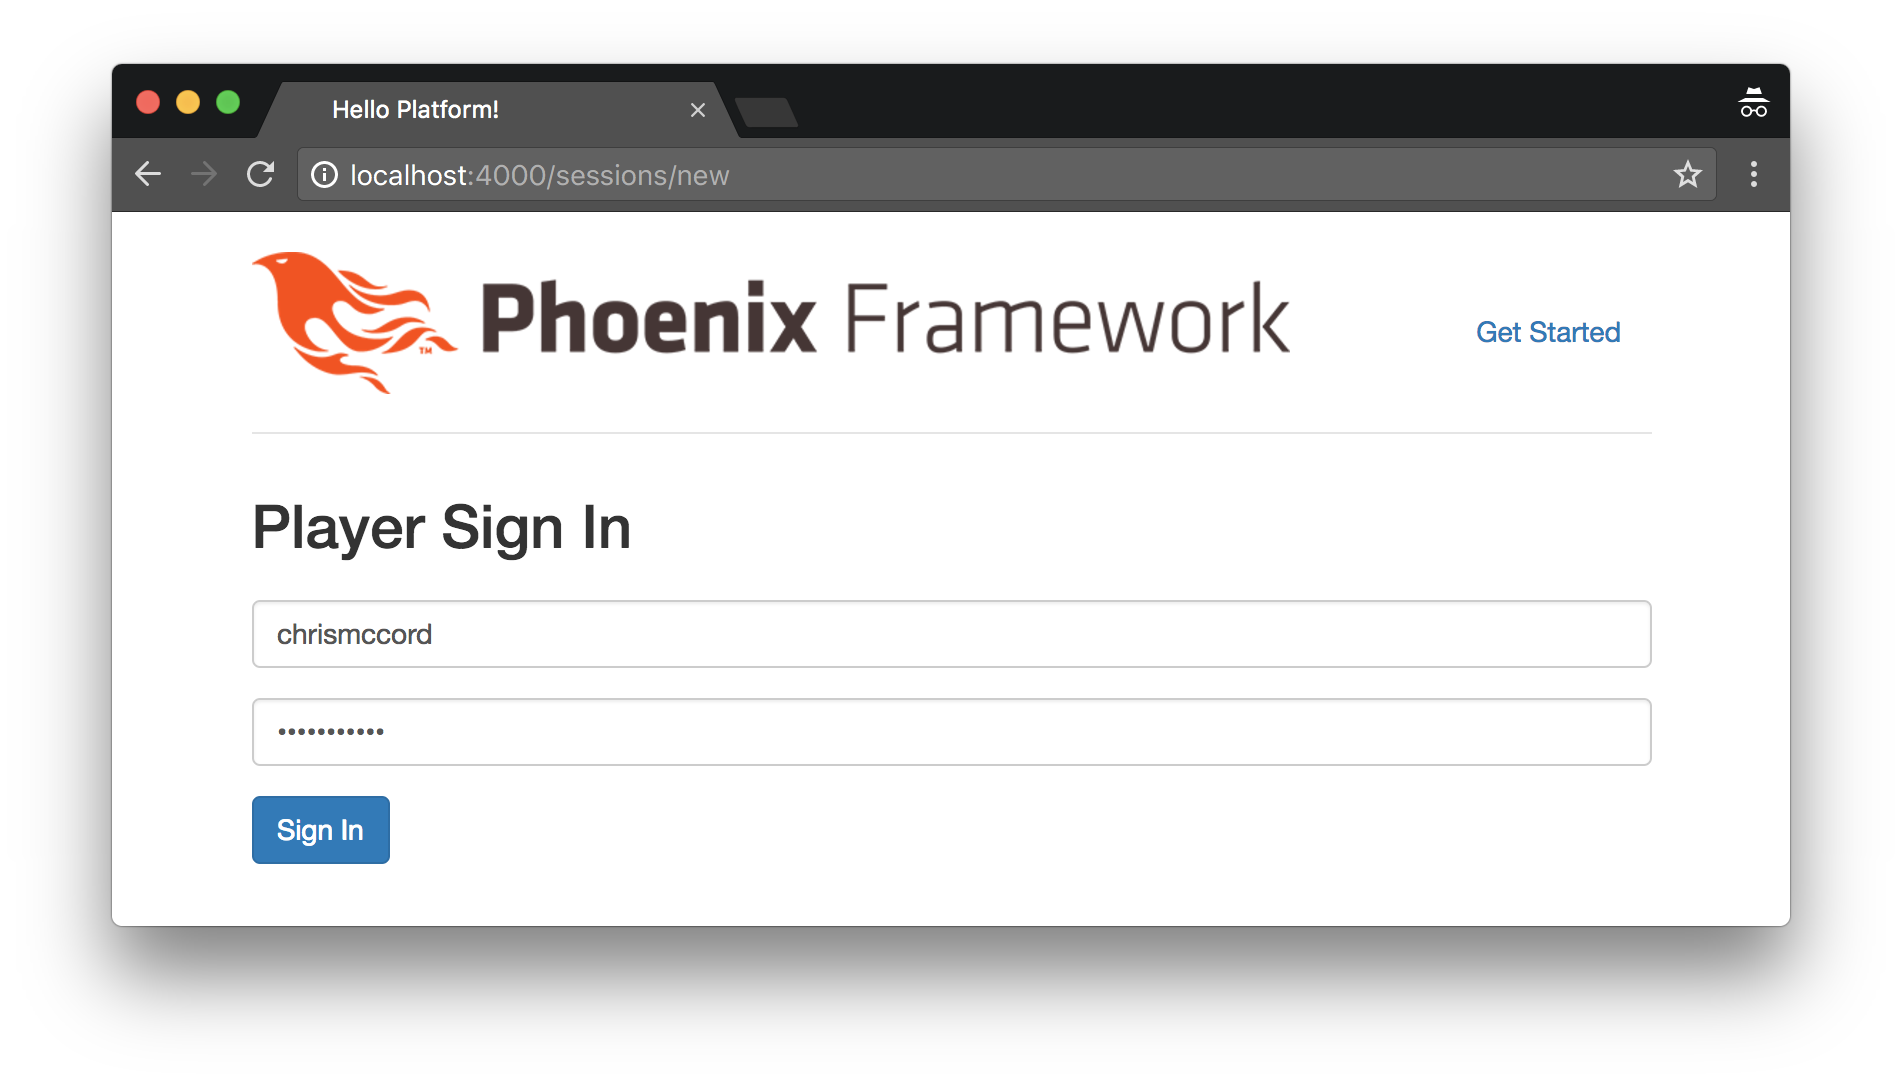
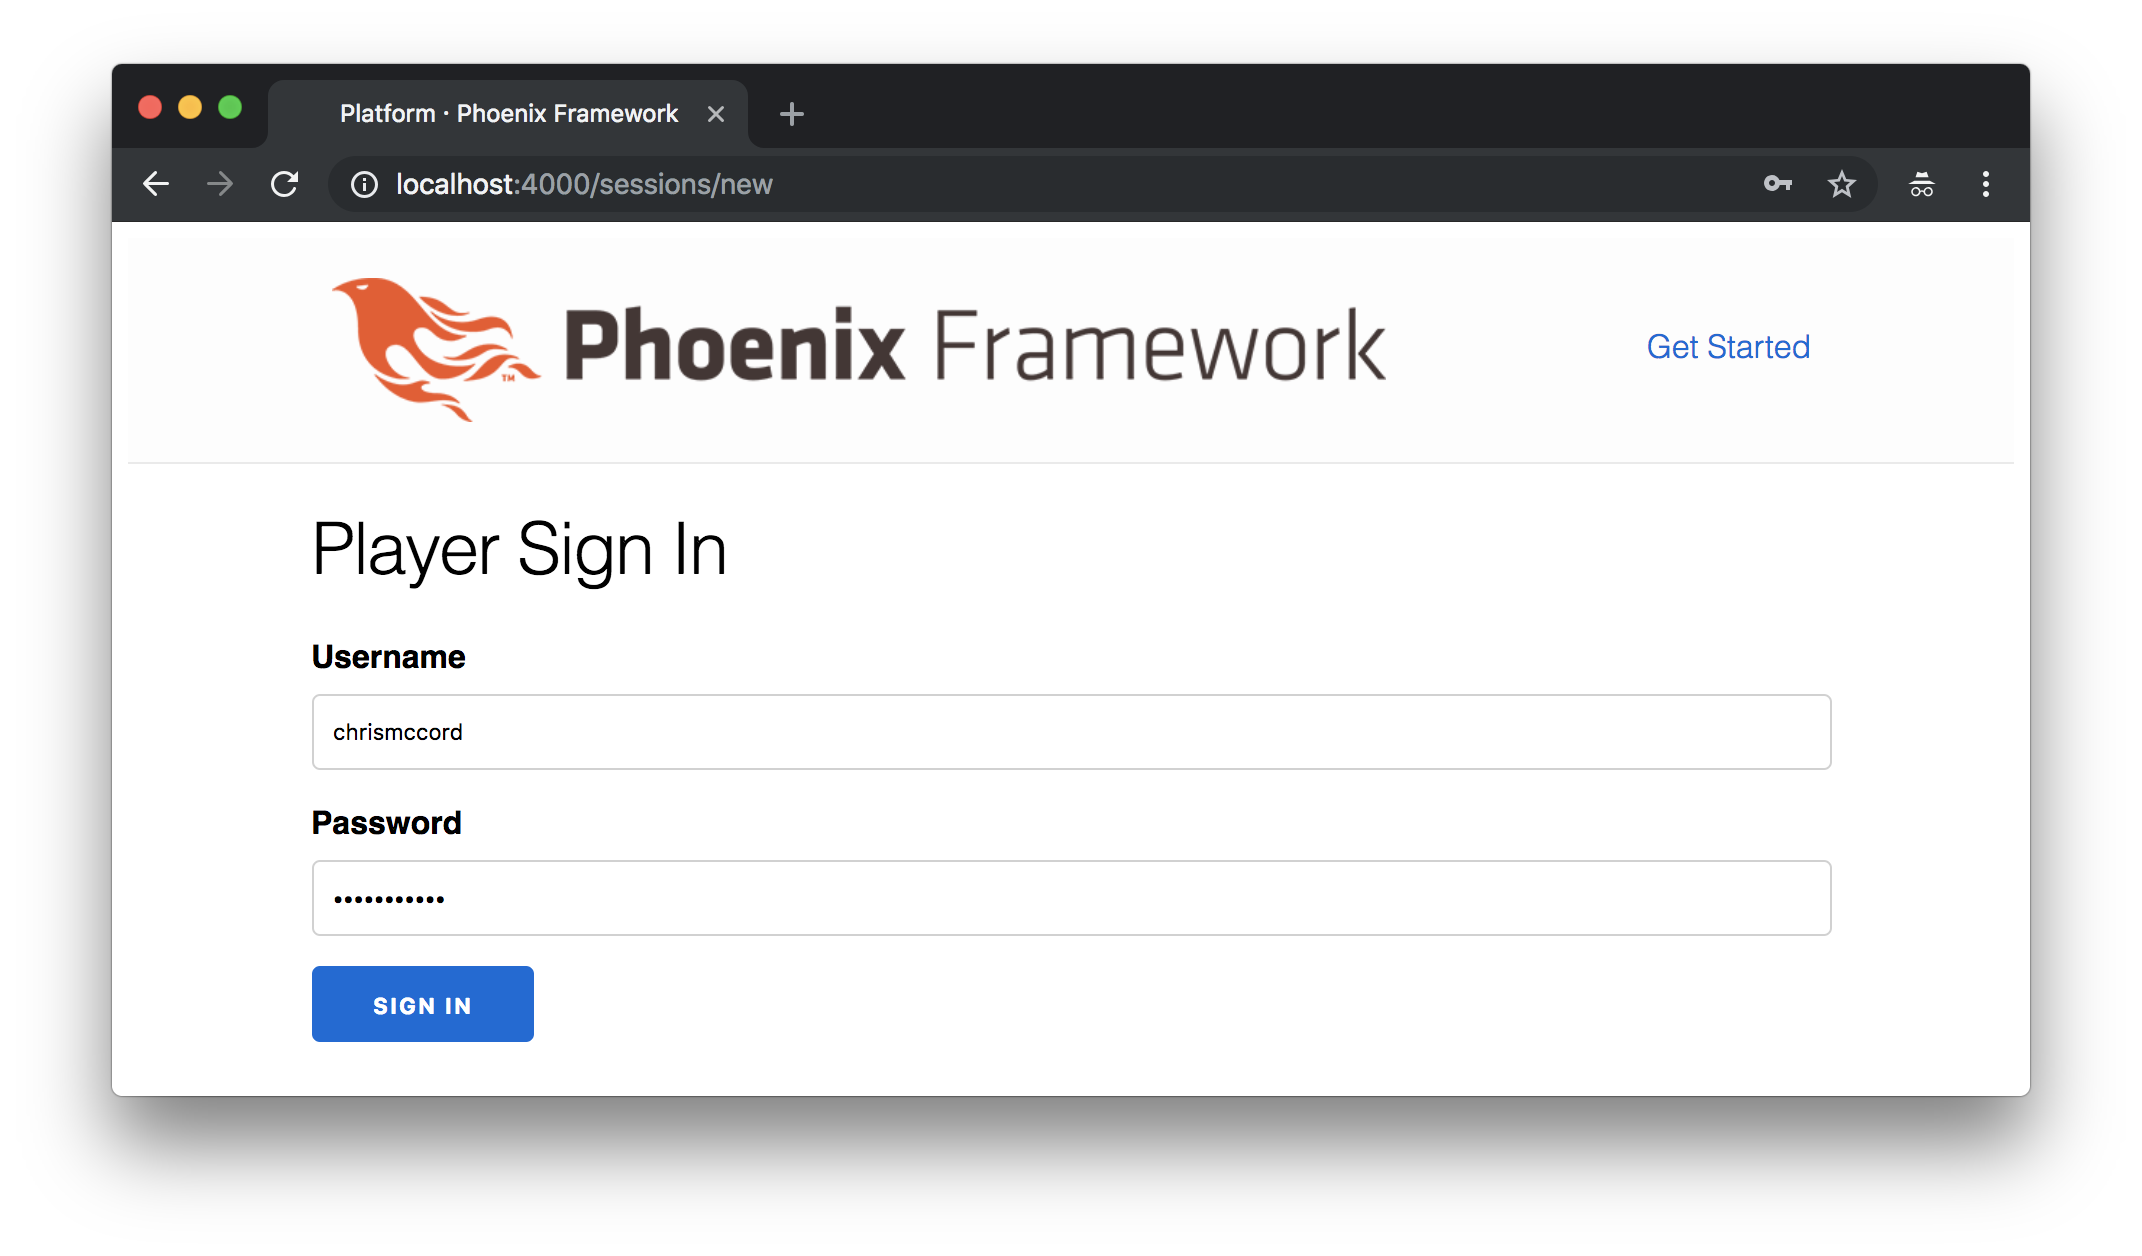
Update session section and images

Changed region(s): [[0.031, 0.0304, 0.9616, 0.9116], [0.1241, 0.395, 0.3412, 0.547], [0.7755, 0.2735, 0.8686, 0.3343]]

diff --git a/manuscript/phoenix_authentication.md b/manuscript/phoenix_authentication.md
@@ -639,9 +639,9 @@ authenticated the new player at the same time.
 ## Sessions
 
 To complete our authentication features, we'll need to handle user sessions. We
-were able to handle sign ins in the previous section because we took care of it
-while creating an account, but now we'll also want to allow users to sign out
-and sign back in whenever they'd like.
+were able to handle the sign in feature in the previous section because we took
+care of it while creating an account, but now we'll also want to allow users to
+sign out and sign back in whenever they'd like.
 
 Let's start by creating a `PlayerSessionController`. Create a new file called
 `lib/platform_web/controllers/player_session_controller.ex`, and add the
@@ -660,7 +660,7 @@ defmodule PlatformWeb.PlayerSessionController do
       {:ok, conn} ->
         conn
         |> put_flash(:info, "Welcome back!")
-        |> redirect(to: page_path(conn, :index))
+        |> redirect(to: Routes.page_path(conn, :index))
       {:error, _reason, conn} ->
         conn
         |> put_flash(:error, "Invalid username/password combination.")
@@ -671,7 +671,7 @@ defmodule PlatformWeb.PlayerSessionController do
   def delete(conn, _) do
     conn
     |> PlatformWeb.PlayerAuthController.sign_out()
-    |> redirect(to: player_session_path(conn, :new))
+    |> redirect(to: Routes.player_session_path(conn, :new))
   end
 end
 ```
@@ -702,23 +702,19 @@ We'll also need to create the corresponding template. Create a
 `new.html.eex` file inside with the following content:
 
 ```embedded_elixir
-<h2>Player Sign In</h2>
+<h1>Player Sign In</h1>
 
-<%= form_for @conn, player_session_path(@conn, :create), [as: :session], fn f -> %>
-  <div class="form-group">
-    <%= label f, :username, "Player Username", class: "control-label" %>
-    <%= text_input f, :username, placeholder: "Enter username...", class: "form-control" %>
-    <%= error_tag f, :username %>
-  </div>
+<%= form_for @conn, Routes.player_session_path(@conn, :create), [as: :session], fn f -> %>
+  <%= label f, :username %>
+  <%= text_input f, :username %>
+  <%= error_tag f, :username %>
 
-  <div class="form-group">
-    <%= label f, :password, "Player Password", class: "control-label" %>
-    <%= password_input f, :password, placeholder: "Enter password...", class: "form-control" %>
-    <%= error_tag f, :password %>
-  </div>
+  <%= label f, :password %>
+  <%= password_input f, :password %>
+  <%= error_tag f, :password %>
 
-  <div class="form-group">
-    <%= submit "Sign In", class: "btn btn-primary" %>
+  <div>
+    <%= submit "Sign In" %>
   </div>
 <% end %>
 ```
